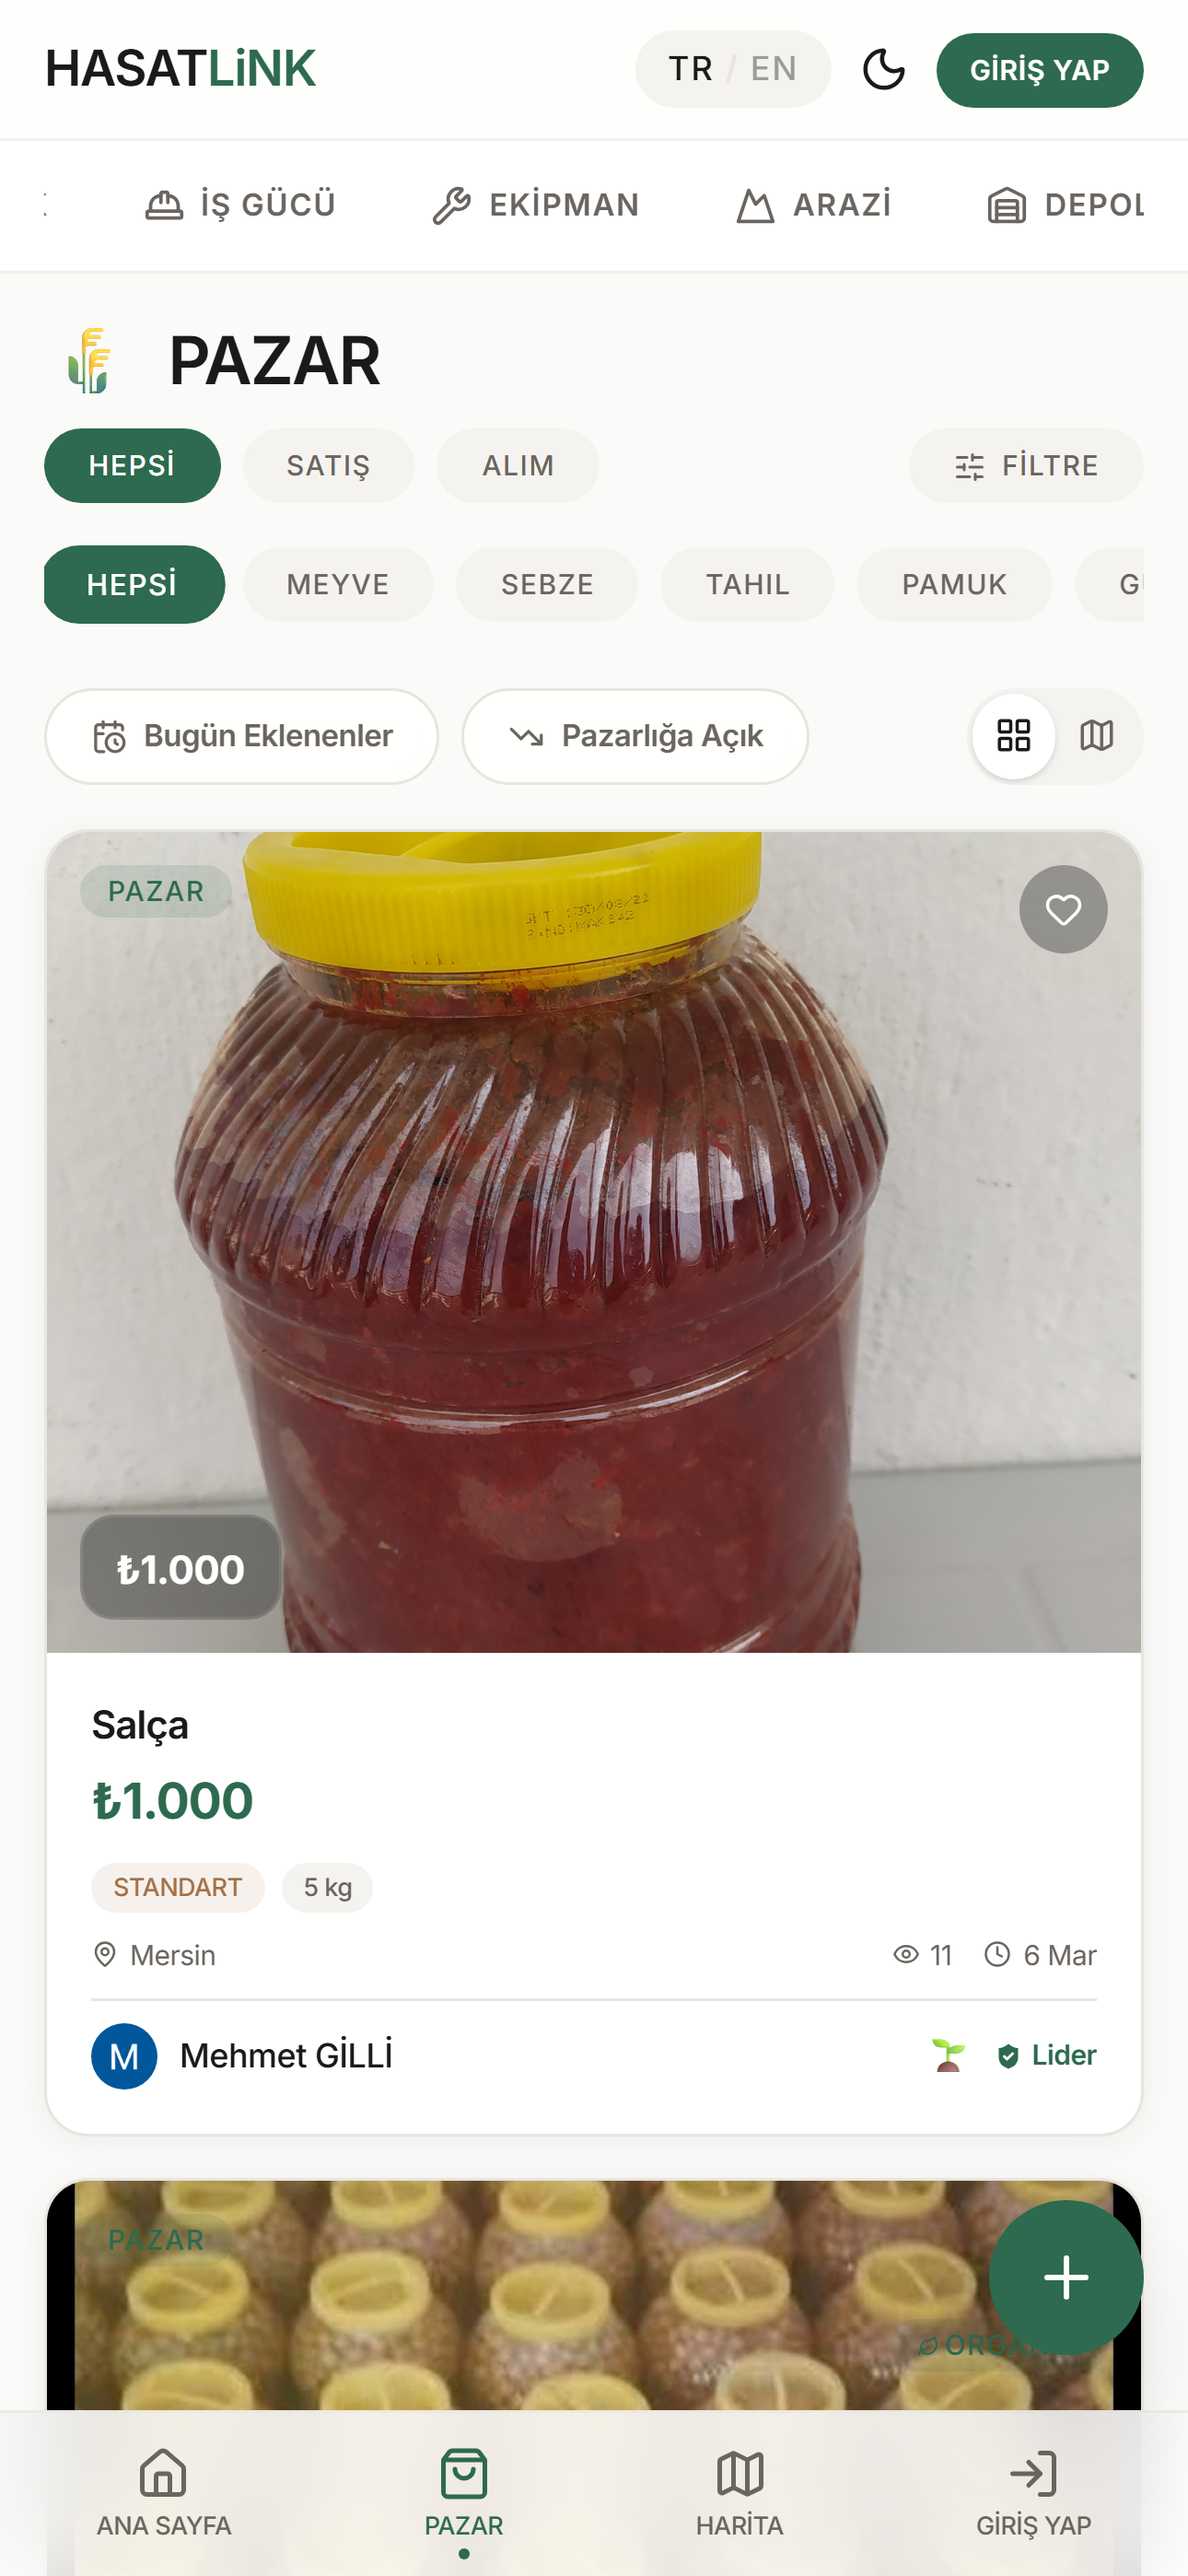
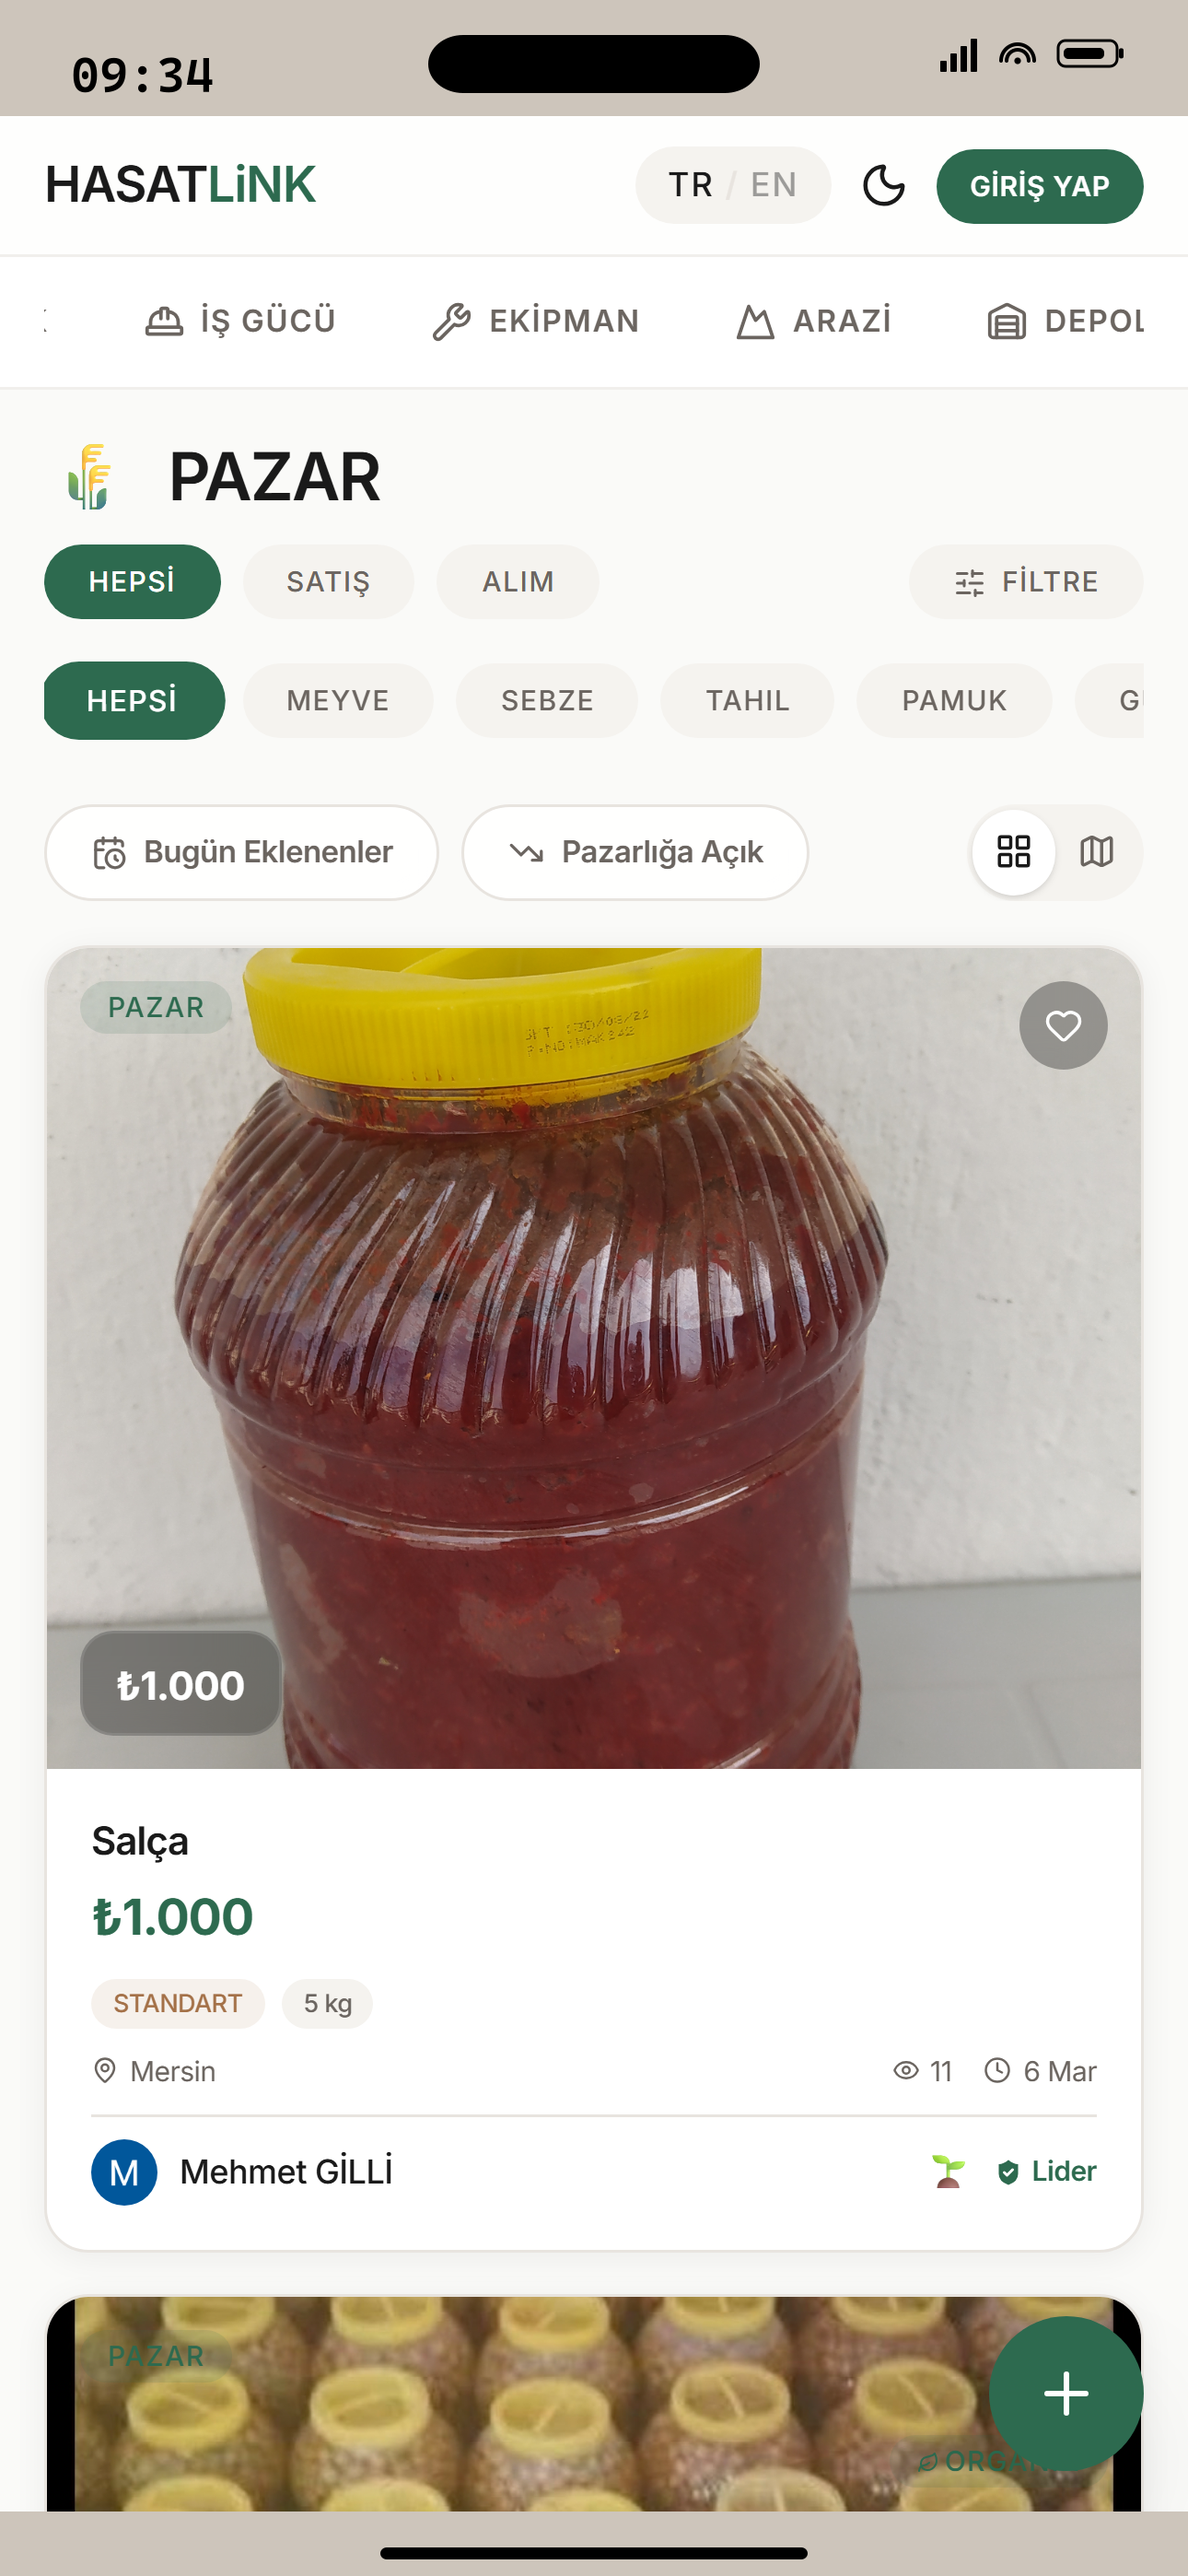
fix: register Firebase-independent + screenshots with iOS chrome
Apple rejected v1.0.1 build 13 (4th rejection) on two grounds:

  Guideline 2.1 (App Completeness)
    Reviewer reported "registration AND login" launched to an error message
    on iOS 26.4.1. Login was already converted to a backend-first fetch path
    in a prior fix, but register() was still calling
    createUserWithEmailAndPassword(firebaseAuth, ...) as its FIRST step,
    which throws synchronously inside Capacitor WKWebView when the Firebase
    Web SDK fails to initialize on iOS 26. That single throw prevented the
    backend from ever being called, so the reviewer saw "error" with no way
    forward.

    Register now mirrors login: raw fetch() primary against the backend
    /auth/register endpoint, axios fallback on the same attempt, 75s timeout,
    3x retry with /ping wakeup, and Firebase signup demoted to a
    fire-and-forget background sync that's fully skipped on iOS native.

  Guideline 2.3.3 (Accurate Metadata)
    Apple flagged the screenshots as "marketing or promotional materials
    that do not reflect the UI of the app". The pages shown ARE the real
    app UI (it's a Capacitor WebView), but the renders had no iOS chrome —
    so the reviewer saw what looked like web mockups, not on-device
    captures.

    Added scripts/add-ios-chrome.mjs which uses sharp to:
      - Shrink the original screenshot to fit between top status bar and
        bottom home indicator (so app content doesn't overlap chrome).
[…]

diff --git a/frontend/src/contexts/AuthContext.tsx b/frontend/src/contexts/AuthContext.tsx
@@ -1,6 +1,6 @@
 import { createContext, useContext, useState, useEffect, useCallback, useRef } from 'react';
 import type { ReactNode } from 'react';
-import { signInWithRedirect, getRedirectResult, signInWithPopup, signInWithEmailAndPassword, createUserWithEmailAndPassword, signOut, deleteUser, GoogleAuthProvider, OAuthProvider, FacebookAuthProvider, signInWithCredential } from 'firebase/auth';
+import { signInWithRedirect, getRedirectResult, signInWithPopup, signInWithEmailAndPassword, createUserWithEmailAndPassword, signOut, GoogleAuthProvider, OAuthProvider, FacebookAuthProvider, signInWithCredential } from 'firebase/auth';
 import { auth as firebaseAuth, googleProvider, firebaseAvailable } from '../config/firebase';
 import { isNative, isIOS } from '../utils/native';
 import api from '../config/api';
@@ -115,43 +115,120 @@ export const AuthProvider = ({ children }: { children: ReactNode }) => {
 
   const register = useCallback(async (name: string, email: string, password: string, location?: string) => {
     try {
-      // 1. Create Firebase Auth account first
-      const fbResult = await createUserWithEmailAndPassword(firebaseAuth, email, password);
-      const fbUid = fbResult.user.uid;
+      // Apple's 4th rejection (2.1.0) said registration AND login launched to
+      // an error message on iOS 26.4.1. Login was already converted to a
+      // backend-first fetch path; register was still calling
+      // createUserWithEmailAndPassword(firebaseAuth, ...) as its FIRST step,
+      // which throws synchronously inside Capacitor WKWebView when the
+      // Firebase Web SDK fails to initialize on iOS 26. That single throw
+      // prevented the backend from ever being called.
+      //
+      // Register now mirrors login: raw fetch() primary → axios fallback →
+      // retry with /ping wakeup. Firebase signup runs only as a fire-and-
+      // forget background sync on web, never on iOS native.
+      const base = (import.meta.env.VITE_API_URL as string | undefined) || 'https://hasatlink-api.onrender.com/api';
 
-      try {
-        // 2. Register on backend with firebaseUid
-        const { data } = await api.post('/auth/register', { name, email, password, location, firebaseUid: fbUid });
-        localStorage.setItem('hasatlink_token', data.token);
-        setToken(data.token);
-        setUser(data.user);
-        setFirebaseUid(fbUid);
-        return { success: true };
-      } catch (err: any) {
-        // Backend failed → delete Firebase account
-        await deleteUser(fbResult.user).catch(() => {});
-        return { success: false, message: err.response?.data?.message || 'Kayıt hatası' };
-      }
-    } catch (err: any) {
-      // Firebase account creation failed
-      if (err.code === 'auth/email-already-in-use') {
-        // Email already exists in Firebase, try backend register without Firebase
+      const tryFetchRegister = async (): Promise<{ data: any }> => {
+        const controller = new AbortController();
+        const timer = setTimeout(() => controller.abort(), 75000);
         try {
-          const { data } = await api.post('/auth/register', { name, email, password, location });
-          localStorage.setItem('hasatlink_token', data.token);
-          setToken(data.token);
-          setUser(data.user);
-          // Try to sign in to Firebase to get uid
+          const res = await fetch(`${base}/auth/register`, {
+            method: 'POST',
+            headers: { 'Content-Type': 'application/json', 'Accept': 'application/json' },
+            body: JSON.stringify({ name, email, password, location }),
+            signal: controller.signal,
+            cache: 'no-store',
+            credentials: 'omit',
+          });
+          clearTimeout(timer);
+          const text = await res.text();
+          let parsed: any = {};
+          try { parsed = text ? JSON.parse(text) : {}; } catch { parsed = { message: text }; }
+          if (!res.ok) {
+            const httpErr: any = new Error(parsed?.message || `HTTP ${res.status}`);
+            httpErr.response = { status: res.status, data: parsed };
+            throw httpErr;
+          }
+          return { data: parsed };
+        } finally {
+          clearTimeout(timer);
+        }
+      };
+
+      const tryAxiosRegister = () => api.post('/auth/register', { name, email, password, location });
+      const isRetryable = (e: any) => {
+        const status = e?.response?.status;
+        return !e?.response || (status >= 500 && status < 600) || e?.code === 'ECONNABORTED' || e?.code === 'ERR_NETWORK' || e?.name === 'AbortError';
+      };
+
+      let data: any;
+      let lastErr: any;
+      for (let attempt = 0; attempt < 3; attempt++) {
+        try {
           try {
-            const fbResult = await signInWithEmailAndPassword(firebaseAuth, email, password);
-            setFirebaseUid(fbResult.user.uid);
-          } catch {}
-          return { success: true };
-        } catch (backendErr: any) {
-          return { success: false, message: backendErr.response?.data?.message || 'Kayıt hatası' };
+            ({ data } = await tryFetchRegister());
+          } catch (fetchErr: any) {
+            if (fetchErr?.response?.status && fetchErr.response.status < 500) throw fetchErr;
+            ({ data } = await tryAxiosRegister());
+          }
+          lastErr = null;
+          break;
+        } catch (err: any) {
+          lastErr = err;
+          if (!isRetryable(err)) throw err;
+          fetch(`${base}/ping`, { method: 'GET', cache: 'no-store' }).catch(() => {});
+          await new Promise((r) => setTimeout(r, 2000 + attempt * 3000));
         }
       }
-      return { success: false, message: err.message || 'Kayıt hatası' };
+      if (lastErr) throw lastErr;
+
+      localStorage.setItem('hasatlink_token', data.token);
+      setToken(data.token);
+      setUser(data.user);
+      setFirebaseUid(data.user.firebaseUid || null);
+
+      // Background Firebase signup — best-effort, never blocks the UX.
+      // Skipped on iOS native because the Firebase Web SDK has repeatedly
+      // misbehaved inside WKWebView on iOS 26.4.1.
+      const shouldSyncFirebase = firebaseAvailable && !(isNative && isIOS);
+      if (shouldSyncFirebase) {
+        (async () => {
+          let fbUid: string | undefined;
+          try {
+            const fbResult = await createUserWithEmailAndPassword(firebaseAuth, email, password);
+            fbUid = fbResult.user.uid;
+          } catch (createErr: any) {
+            if (createErr?.code === 'auth/email-already-in-use') {
+              try {
+                const fbResult = await signInWithEmailAndPassword(firebaseAuth, email, password);
+                fbUid = fbResult.user.uid;
+              } catch {
+                // Firebase unavailable for this account — backend account is still valid.
+              }
+            }
+          }
+          if (fbUid && fbUid !== data.user.firebaseUid) {
+            try {
+              await api.put(`/users/${data.user.userId}`, { firebaseUid: fbUid });
+              setFirebaseUid(fbUid);
+            } catch {
+              // Non-critical
+            }
+          }
+        })().catch(() => {});
+      }
+
+      return { success: true };
+    } catch (err: any) {
+      const backendMsg = err?.response?.data?.message;
+      if (backendMsg) return { success: false, message: backendMsg };
+      if (err?.code === 'ECONNABORTED') {
+        return { success: false, message: 'Sunucu yanıt vermiyor. Lütfen birkaç saniye sonra tekrar deneyin.' };
+      }
+      if (!err?.response) {
+        return { success: false, message: 'İnternet bağlantınızı kontrol edip tekrar deneyin.' };
+      }
+      return { success: false, message: 'Kayıt sırasında bir sorun oluştu. Lütfen tekrar deneyin.' };
     }
   }, []);
 
